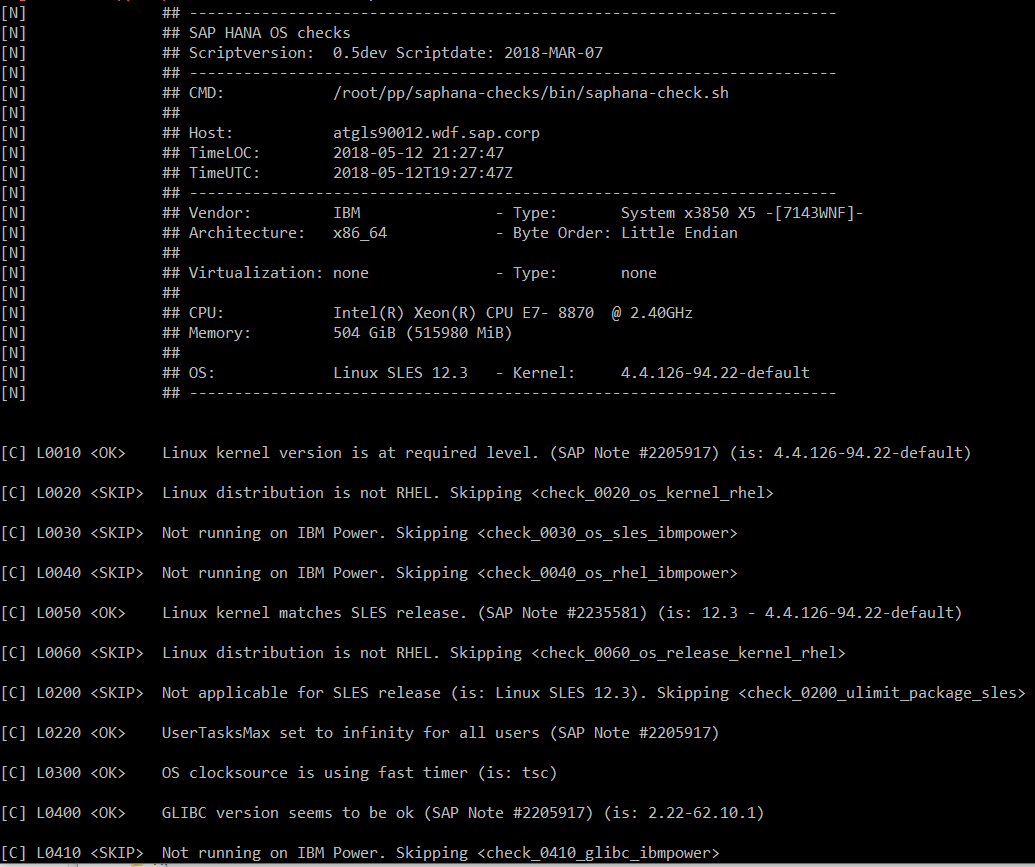
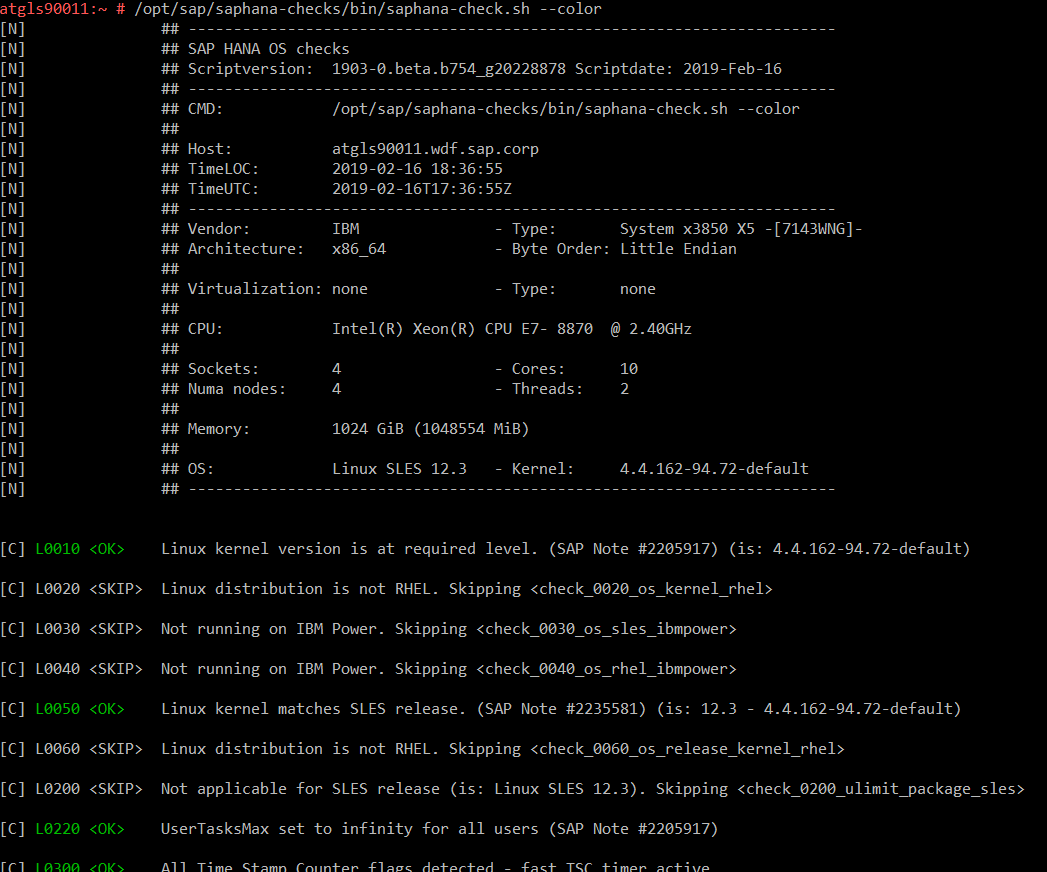
README - remove zip file installation, add updated example output (#474)

Changed region(s): [[0.0, 0.0, 1.0, 1.0], [0.742, 0.6851, 0.9275, 0.7163], [0.742, 0.6228, 0.9275, 0.654]]

diff --git a/README.md b/README.md
@@ -16,14 +16,9 @@ A: Scripts require root permission in order to read certain kernel parameter val
 #### as root user - extract scripts to Linux server & run saphana-check.sh
 * [Download release or dev build](https://github.wdf.sap.corp/SAP-COE-HPTI/saphana-checks/releases)
 
-##### Option A) RPM installation
 * rpm -Uvh ./saphana-checks-*.rpm
 * will be installed to /opt/sap/saphana-checks
 * /opt/sap/saphana-checks/bin/saphana-check.sh
-
-##### Option B) Tarball extraction (deprecated - will be removed in next releases)
-* tar -xvf saphana-checks-*.tgz
-* ./saphana-checks/bin/saphana-check.sh
 
 ![Example Output](/docs/Example-Output.png?raw=true "Example Output")
 
